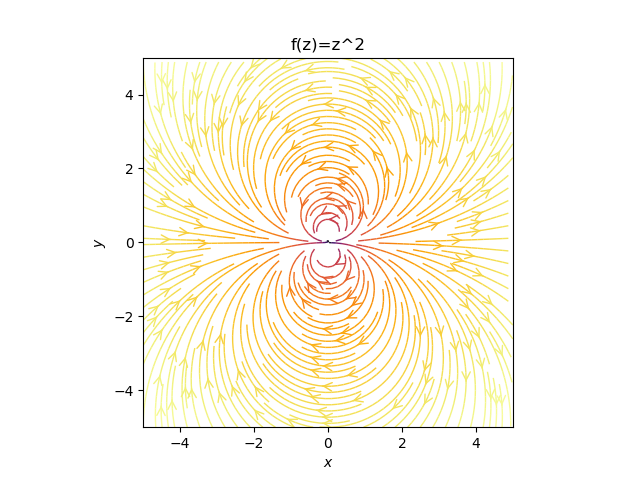
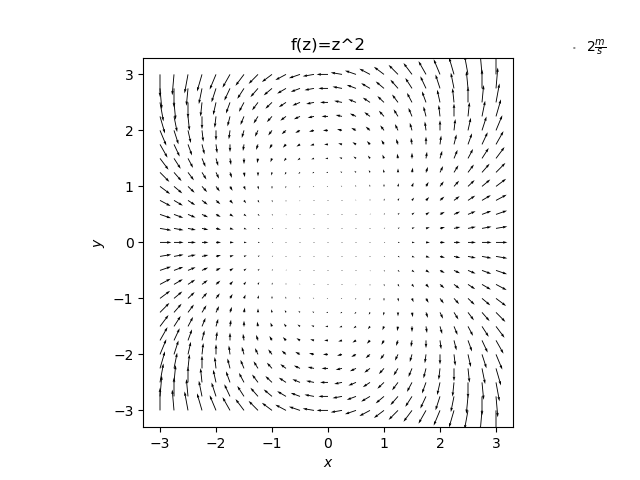
update

Changed region(s): [[0.1875, 0.125, 0.8125, 0.9375], [0.9062, 0.0625, 0.9375, 0.125]]

diff --git a/vector_field/vector_field.py b/vector_field/vector_field.py
@@ -1,23 +1,33 @@
 import matplotlib.pyplot as plt
 import numpy as np
 
-u = np.linspace(-5, 5, 200)
-v = np.linspace(-5, 5, 200)
+u = np.linspace(-3, 3, 25)
+v = np.linspace(-3, 3, 25)
 uu, vv = np.meshgrid(u, v)
 z = uu + 1j * vv
-w = np.power(z, 2)
+# w = 1/z
+# w = np.exp(z)
+# w = np.log(z)
+w = np.sin(z)
 T = np.arctan2(uu, vv)
 
 fig = plt.figure()
 ax = fig.add_subplot(111)
 color = 2 * np.log(np.hypot(np.real(w), np.imag(w)))
-ax.streamplot(np.real(z), np.imag(z), np.real(w), np.imag(w), color=color, linewidth=1, cmap=plt.cm.inferno,
-              density=2, arrowstyle='->', arrowsize=1.5)
+# ax.streamplot(np.real(z), np.imag(z), np.real(w), np.imag(w), color=color, linewidth=1, cmap=plt.cm.inferno,
+#               density=2, arrowstyle='->', arrowsize=1.5)
+
+Q = plt.quiver(np.real(z), np.imag(z), np.real(w), np.imag(w), units='width')
+qk = plt.quiverkey(Q, 0.9, 0.9, 2, r'$2 \frac{m}{s}$', labelpos='E',
+                   coordinates='figure')
 
 ax.set_xlabel('$x$')
 ax.set_ylabel('$y$')
 # ax.set_xlim(-2, 2)
 # ax.set_ylim(-2, 2)
 ax.set_aspect('equal')
-plt.title('f(z)=z^2')
+# plt.title('f(z)=1/z')
+# plt.title('f(z)=exp(z)')
+# plt.title('f(z)=log(z)')
+plt.title('f(z)=sin(z)')
 plt.show()
